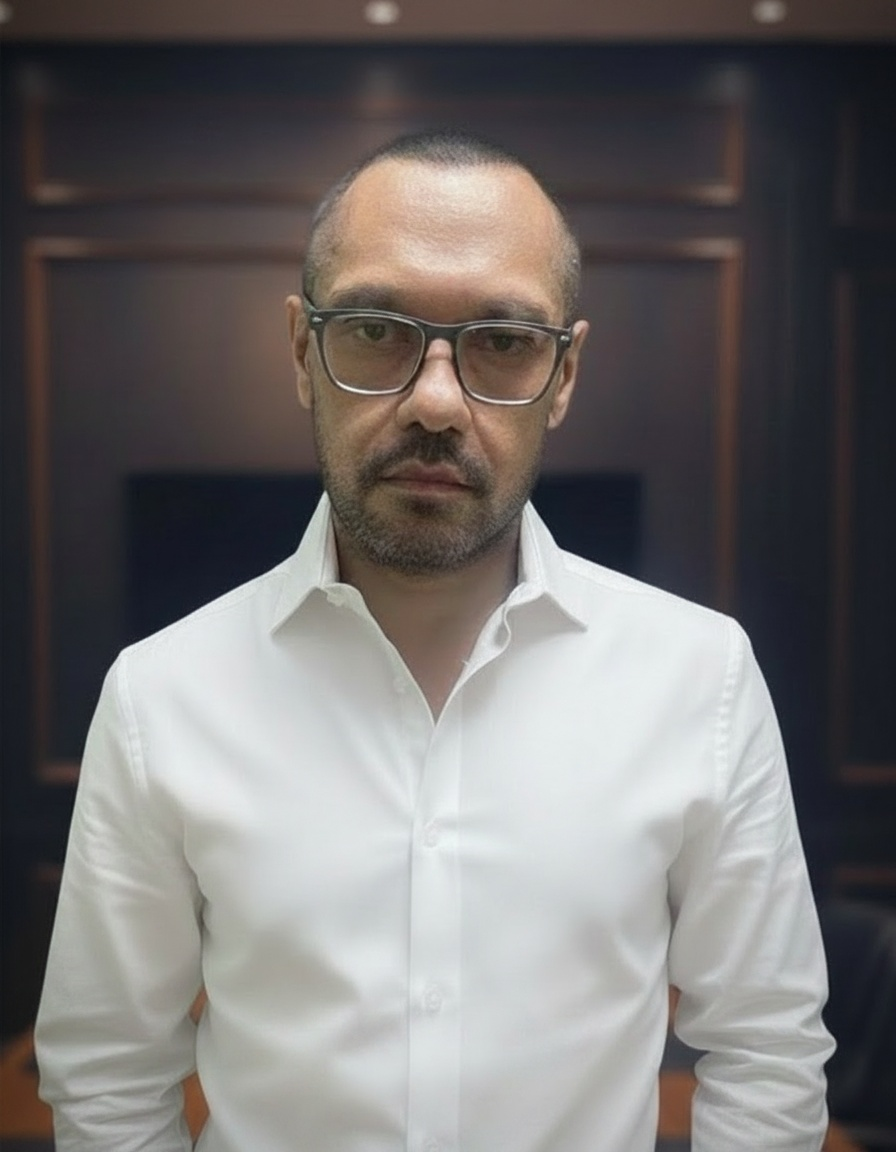
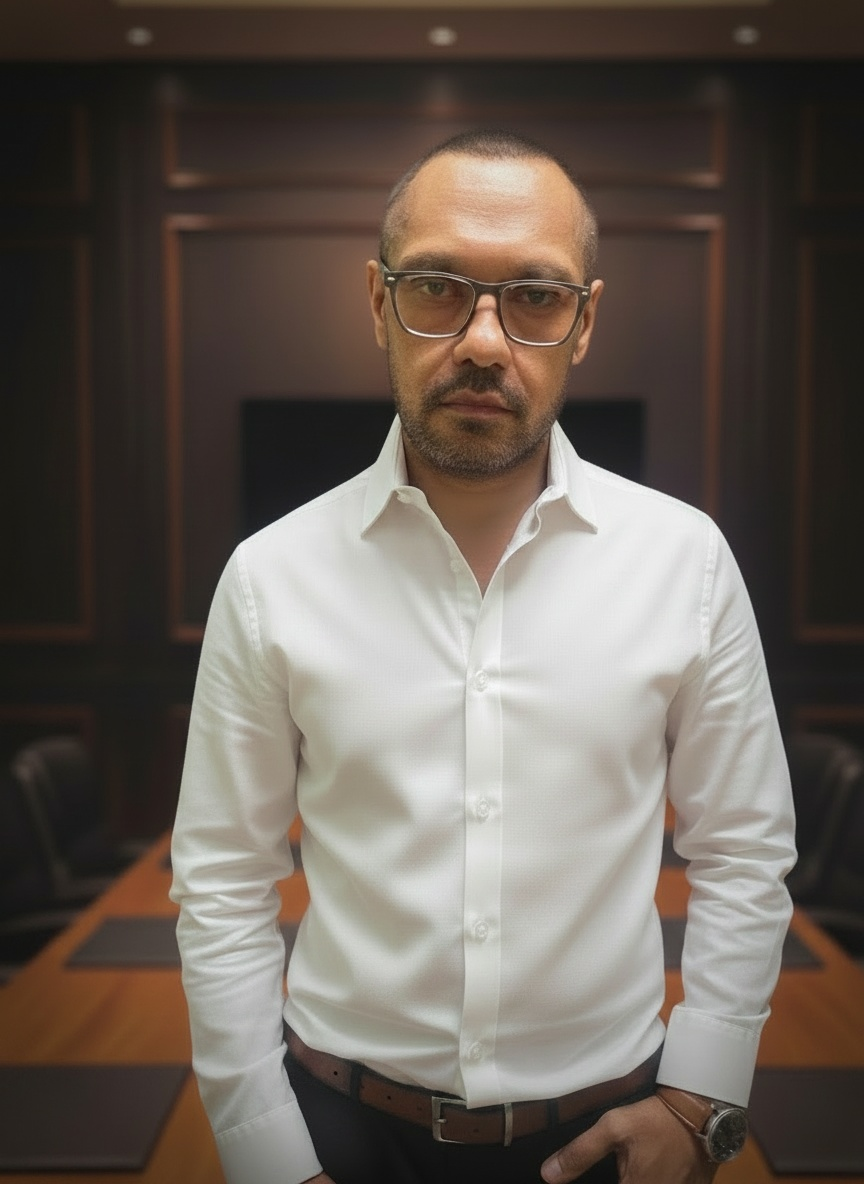
v3.2.1: portrait — face tone correction pass
User flagged "too much glow on the face" after v3.2.0. Single
nano-banana corrective pass on V3-Clean/05-pass3-final.jpg with
three targeted changes:

1. Face brightness reduced ~15-20%, especially the forehead.
   Face still focal point but no longer the brightest element.
2. Skin tone pulled ~50% closer to neutral. Background keeps
   its warmth, skin reads neutral-not-warm.
3. Forehead highlight softened from hot spot into gentle
   gradient. Upper-left directional key still present, just less
   intense at the forehead.

Everything else from v3.2.0 preserved: directional lighting,
corner vignette, eye clarity, shirt smoothing, background blur,
foreground table depth, subject identity, expression, glasses,
beard, hair, posture, hand-in-pocket, watch, belt, pose.

Bonus: nano-banana added subtle wall sconces on either side of
the back wall at chest height — incidental but brand-aligned
boardroom atmosphere, brightest elements now correctly read as
the lamps not the face.

V3-Clean working files now include:
  06-pass4-tone-correction.jpg <-- shipped as portrait.jpg

portrait-previous.jpg updated to point at v3.2.0 (the over-glowed
version) as the immediate rollback target.

Cache-buster: portrait.jpg?v=3.2.0 -> ?v=3.2.1

diff --git a/index.html b/index.html
@@ -388,7 +388,7 @@
         <div class="about-grid">
           <figure class="portrait-figure">
             <div class="portrait-artwork">
-              <img src="assets/portrait.jpg?v=3.2.0"
+              <img src="assets/portrait.jpg?v=3.2.1"
                    alt="Taran Aujla, Salesperson with HomeLife G1 Realty Inc., Brokerage. Editorial portrait."
                    width="880" height="1184"
                    loading="lazy" decoding="async" />
